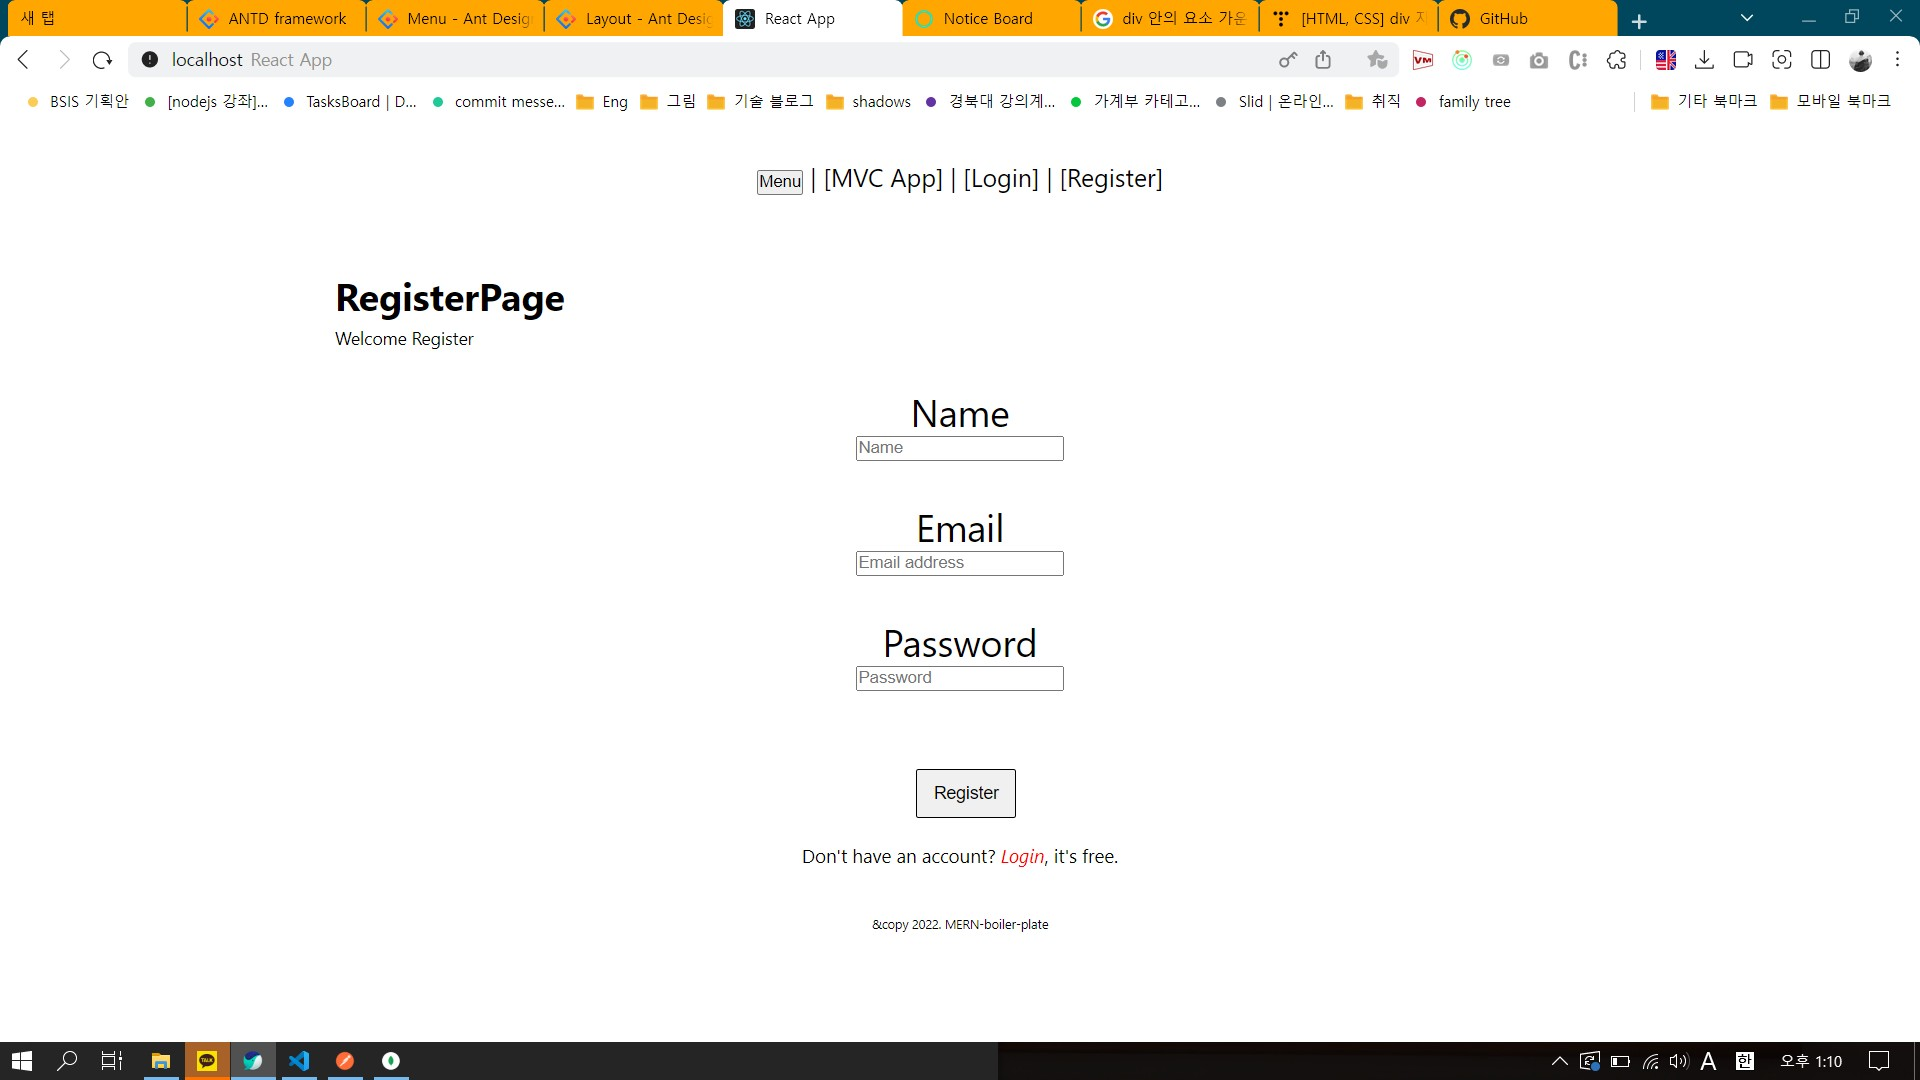
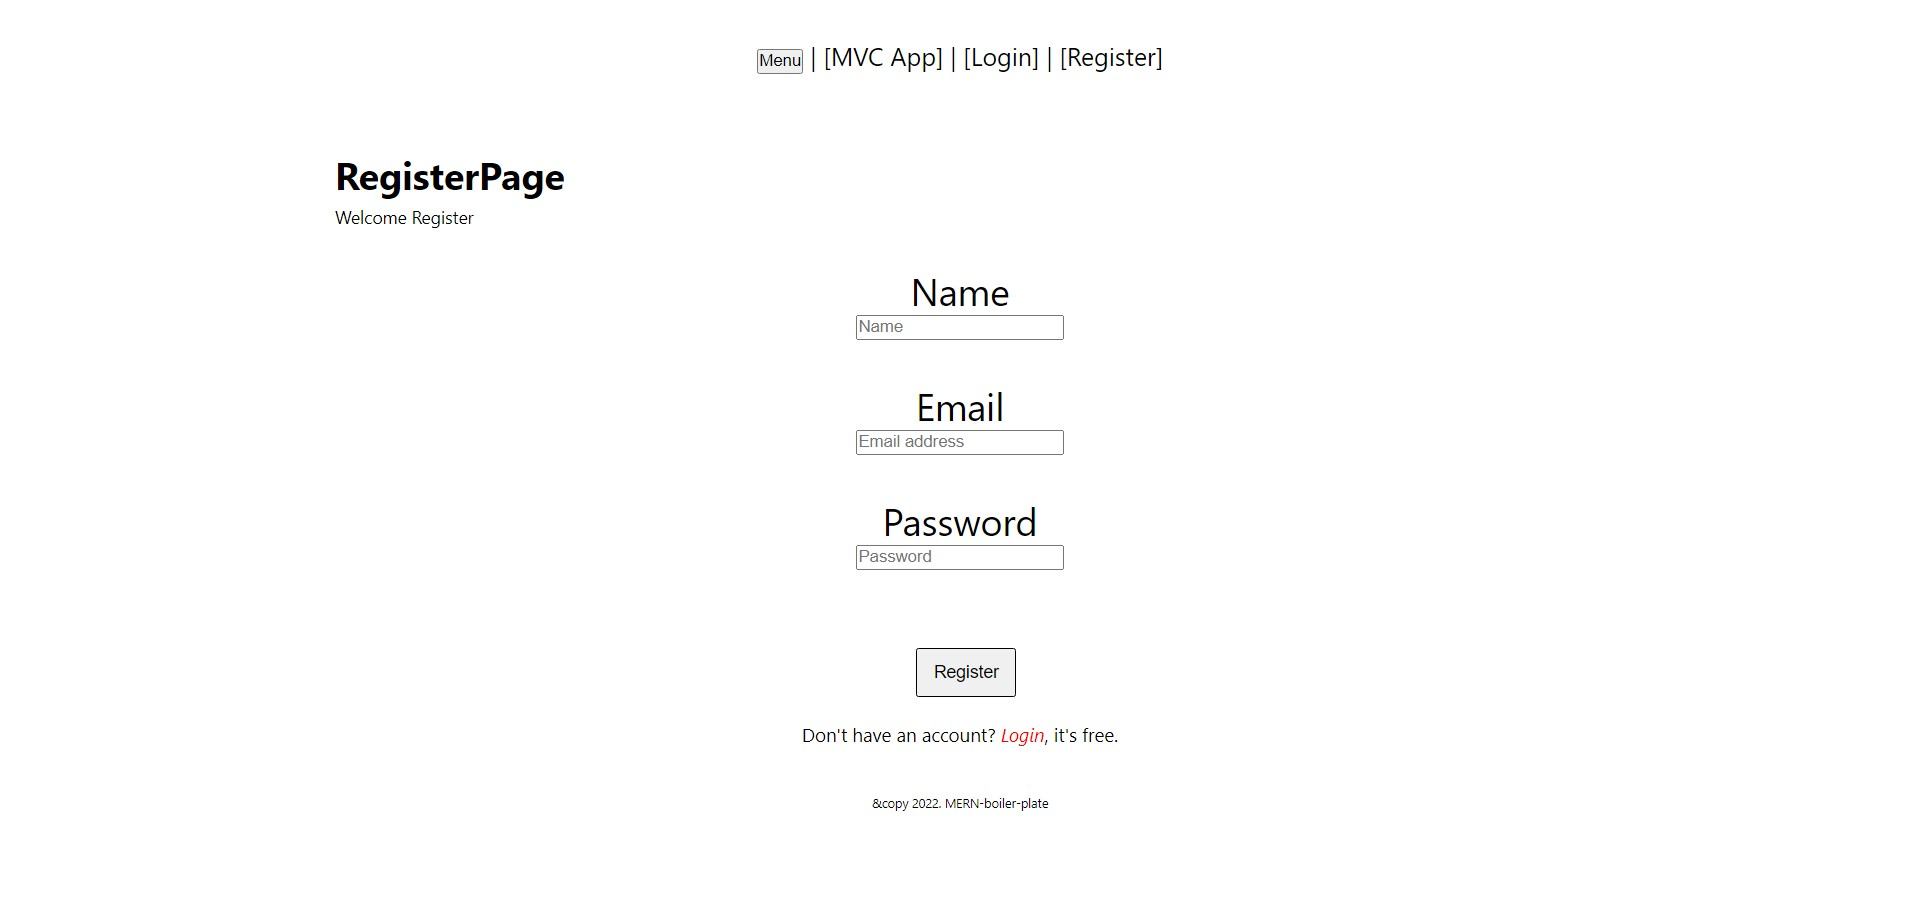
make design preview

diff --git a/_preview/pages.md b/_preview/pages.md
@@ -1,0 +1,27 @@
+# Pages (2022.06.28)
+
+## LandingPage
+
+![LandingPage](./LandingPage.JPG)
+
+## LoginPage
+
+![LoginPage](./LoginPage.JPG)
+
+## RegisterPage
+
+![RegisterPage](./RegisterPage.JPG)
+
+## ProfilePage
+
+![ProfilePage](./ProfilePage.JPG)
+
+## ContentPage
+
+
+
+![ContentPage](./ContentPage.jpg)
+
+## CreatePage
+
+![CreatePage](./CreatePage.JPG)
